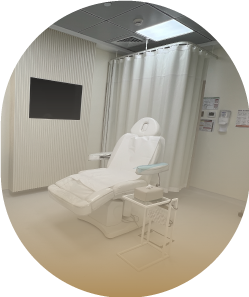
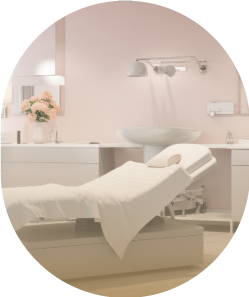
change imgs of about section and also change the colors

diff --git a/assets/css/style.css b/assets/css/style.css
@@ -13107,7 +13107,7 @@ Navbar Area CSS
   z-index: 999;
   padding-left: 0;
   padding-right: 0;
-  padding-top: 10px;
+  padding-top: 0px;
 
   padding-bottom: 0;
 }
@@ -14378,7 +14378,7 @@ About Area CSS
   display: flex;
   align-items: center;
   border-radius: 10px;
-  background-color: #F2F1EC;
+  background-color: #FAF6ED;
   padding: 10px 20px;
   color: #002345;
   font-weight: 600;
@@ -15256,7 +15256,7 @@ Insurance Area CSS
   display: flex;
   align-items: center;
   border-radius: 10px;
-  background-color: #F2F1EC;
+  background-color: #FAF6ED;
   font-size: 17px;
   font-weight: 600;
   padding: 10px 20px;

diff --git a/index.html b/index.html
@@ -1384,9 +1384,9 @@
     <!-- Arabic Button Row with Matching Alignment -->
     <div class="container-xl d-none d-xl-flex align-items-center justify-content-center position-relative">
         <!-- Centered Logo -->
-        <a href="index-2.html" class="mx-auto" style="margin-top: 20px; ">
+        <a href="index-2.html" class="mx-auto" style="margin-top: 0px; ">
             <img src="assets/images/3d proto logo with tagline (Wellness inside out).png" alt="Logo"
-                style="height: 125px;">
+                style="height: 145px;">
         </a>
 
 
